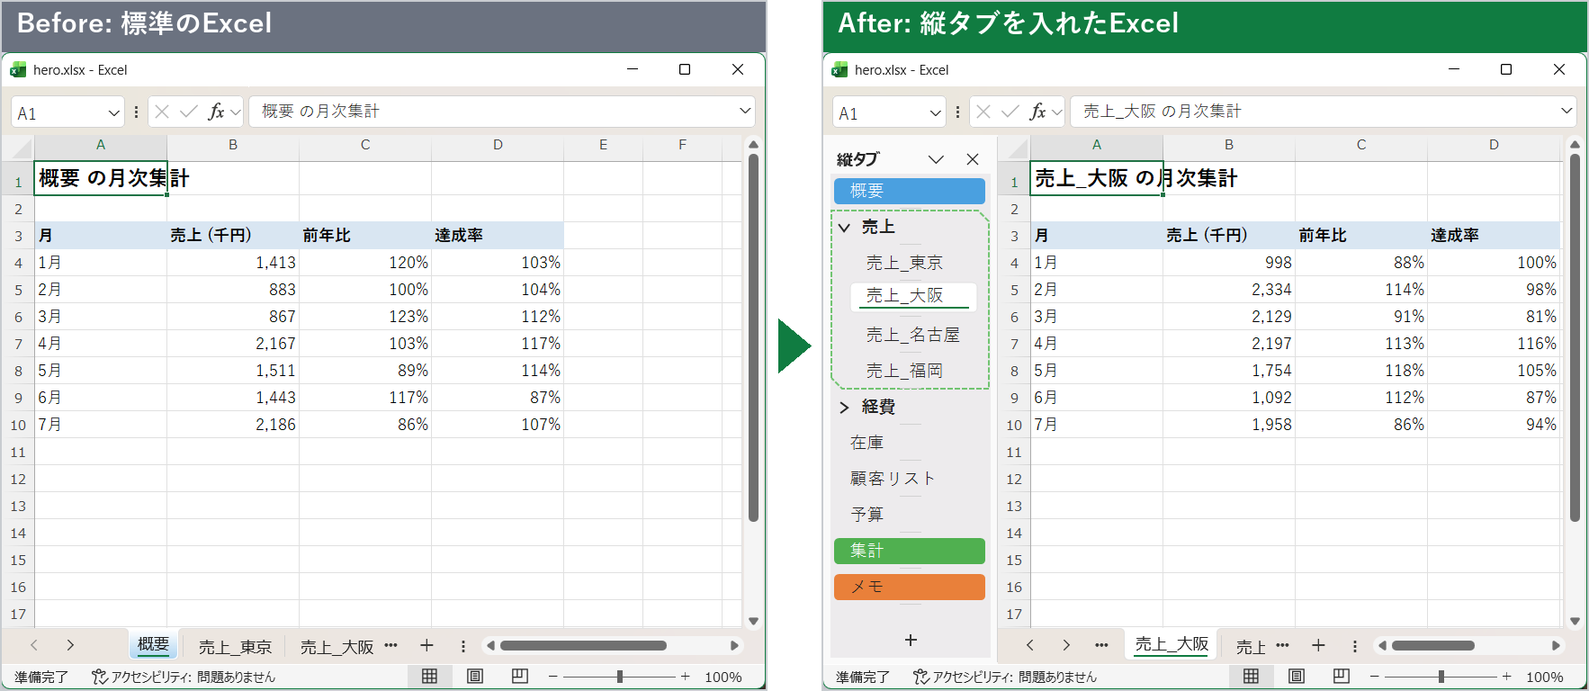
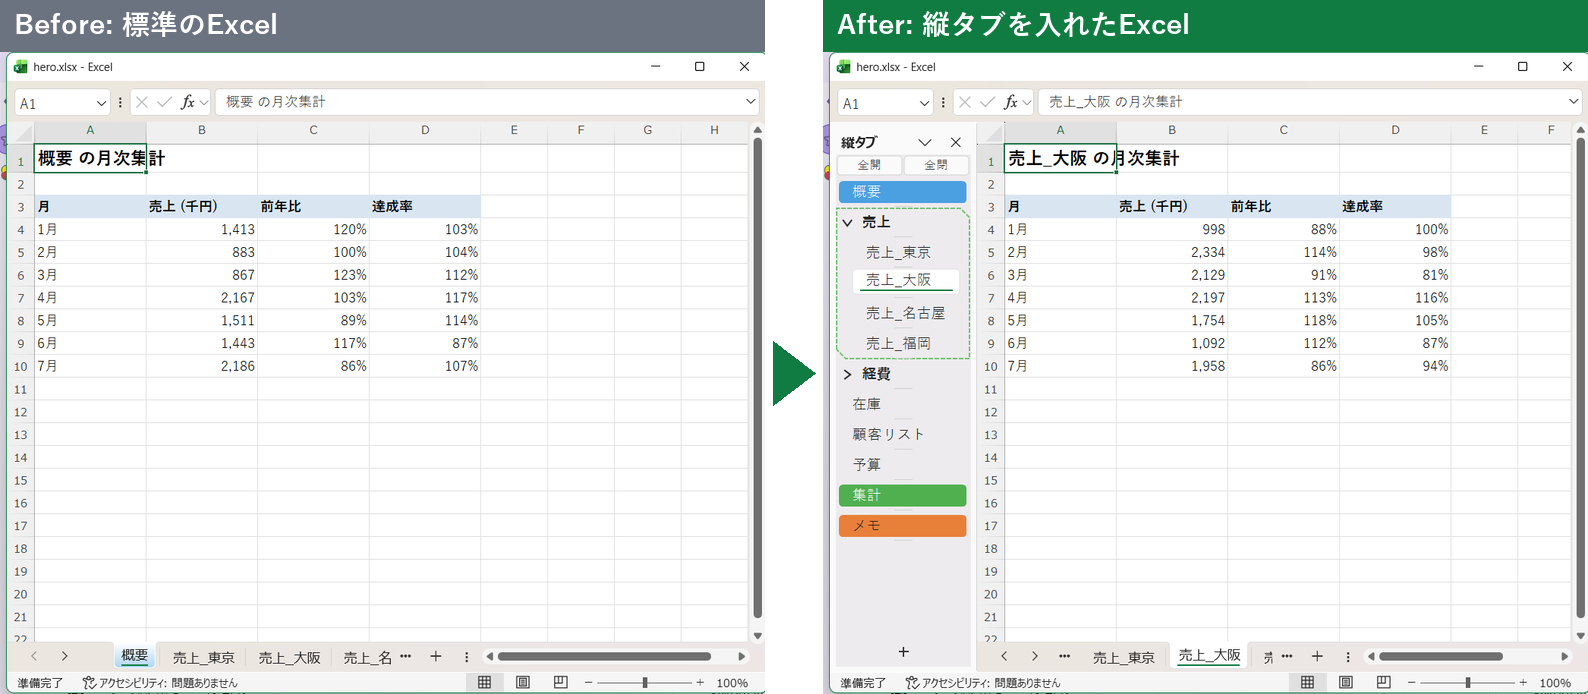
README の画像 hero.png、modes.png を、いまの縦タブで撮り直す

Changed region(s): [[0.0, 0.0, 1.0, 1.0], [0.9874, 0.0, 1.0, 0.0304]]

diff --git a/Agents.md b/Agents.md
@@ -2095,3 +2095,8 @@ gitGraph
 
 - 12.153 (「全開」「全閉」ボタンは、フォルダが1つでもあれば表示する)、12.154 (README.md の見直し、設定画面の画像の撮り直し) を含めて、バージョンを 1.1.60.0 に上げ、ClickOnce のインストーラを作り直した (`develop` と `master` に反映し、`v1.1.60` のタグを付けた。配布用zip: `配布用zip\VerticalSheetTabs_v1.1.60.zip`)
 - 成果物: `VerticalSheetTabs\bin\Release\app.publish\` (`setup.exe`、`VerticalSheetTabs.vsto`、`Application Files\VerticalSheetTabs_1_1_60_0\`)。インストールの実機確認は、未実施
+
+### 12.156 更新: README の画像 `hero.png`、`modes.png` の撮り直し
+
+- 12.154 で撮り直していなかった、`docs/images/hero.png` (Before / After) と `modes.png` (表示モード A、B、C、C + 右側) を、いまの縦タブで、撮り直した。フォルダが2つある縦タブ (売上は開、経費は閉) で、上端に「全開」「全閉」のボタンの帯が写る。撮影: Excel (リボンを畳んだ状態、拡大率125%)、アドインなし (A) / あり (B、C、C + 右側)、12枚のシート (概要、売上_東京など)、アクティブなシートは、Aが「概要」、ほかが「売上_大阪」。ウィンドウの端に、背景の画面が写り込むため、右と下の端を、少し切り落とした
+- 注意: `rule.png` (シート名のルール)、`menu_*.png`、`ribbon.png`、`designs.png`、`markers.png` は、撮り直していない (フォルダのある縦タブの帯は、`rule.png` に写っていない可能性がある。必要なら、撮り直す)
